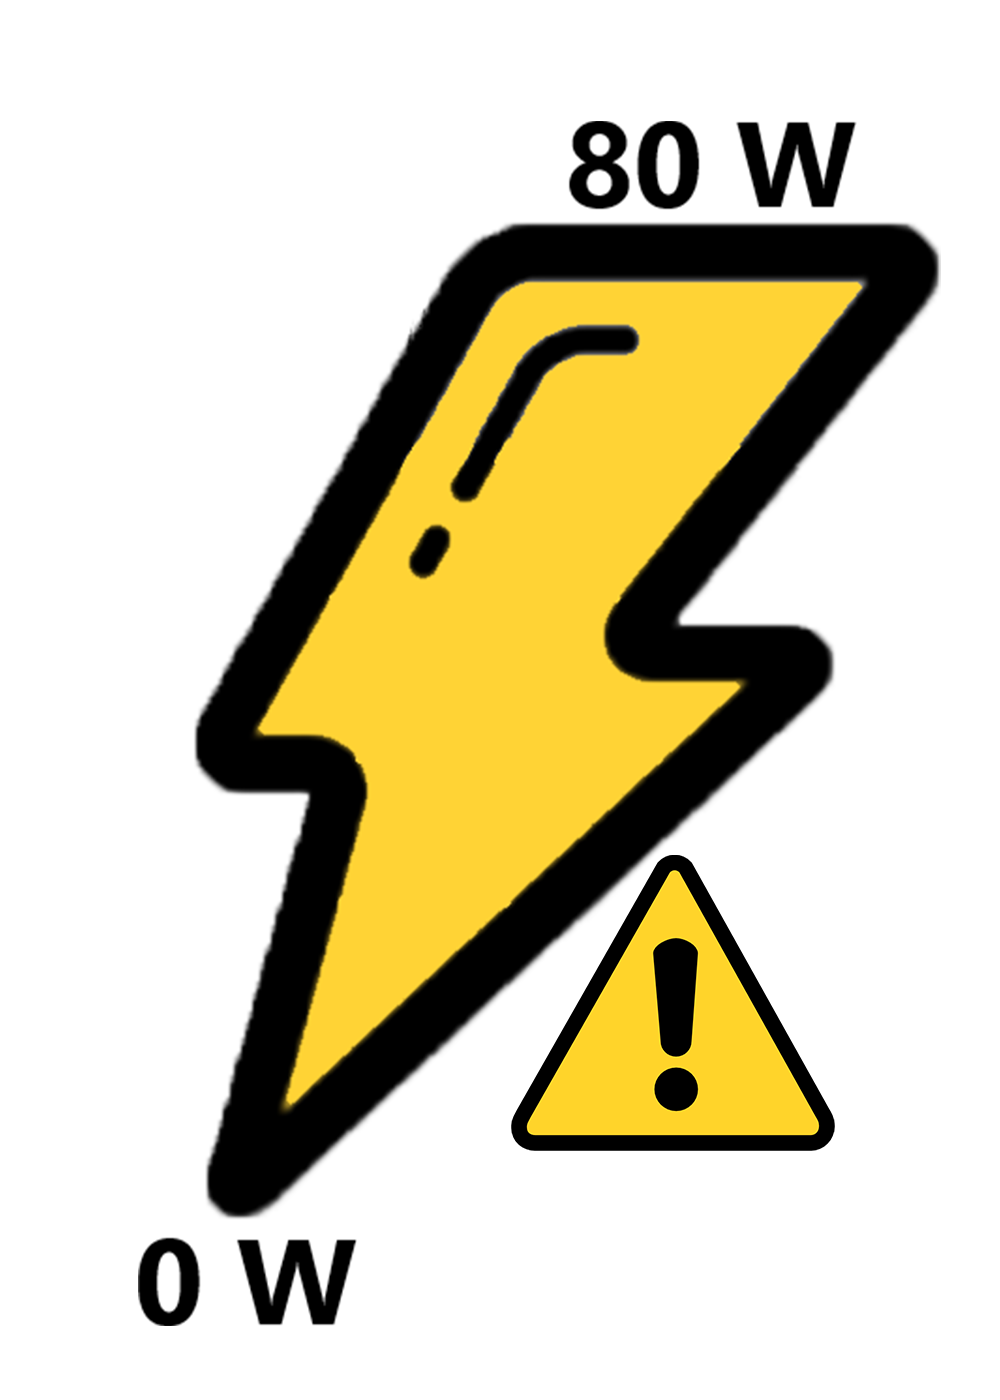
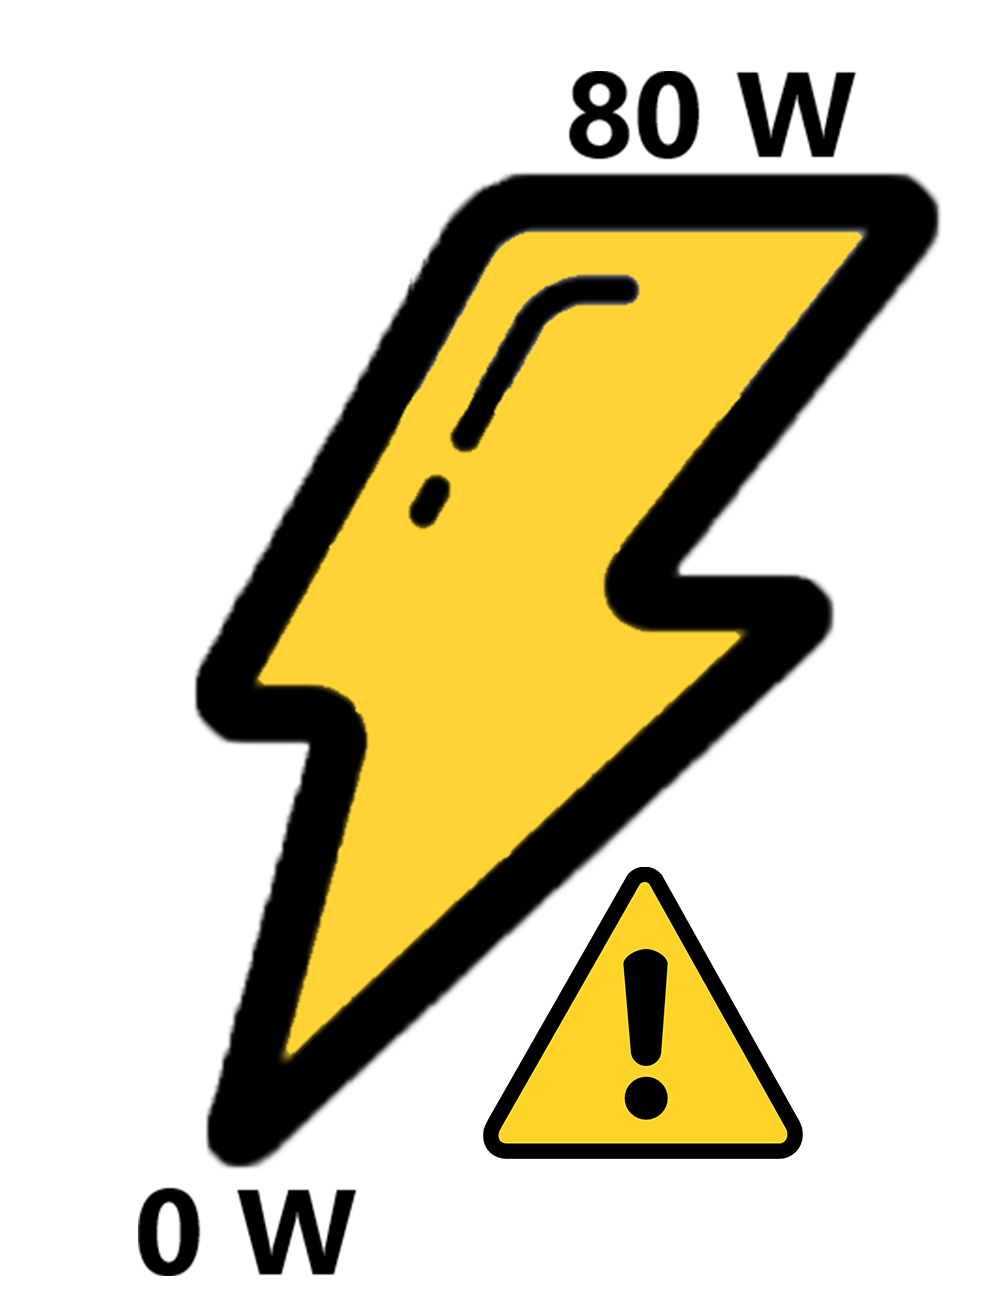
Mise a jour images surpuissance et puissanceError ref #8 #10

diff --git a/Application/stds-app/src/components/CardBoxPagePuissance.tsx b/Application/stds-app/src/components/CardBoxPagePuissance.tsx
@@ -41,7 +41,7 @@ export default function CardBoxPuissance(){
 
     switch (true) {
         case (valPuissance <= 0):
-            imageVal = "puissanceError.png"
+            imageVal = "PuissanceError.png"
             break;
         case (valPuissance <= 20 && valPuissance > 0):
             imageVal = "min-.png"
@@ -98,7 +98,7 @@ export default function CardBoxPuissance(){
                                 <Grow in={showImage} timeout={1000} style={{ transformOrigin: '10% 10%' }}>
                                 <Box sx={{ display: "flex", alignItems: "center", height: 250, width: 200, marginBottom:0.5 ,justifyContent: "center"}}>
                                
-                                <Box sx={{display: "flex" ,height:140, width:80 ,alignItems: "center"}}>
+                                <Box sx={{display: "flex" ,height:120, width:80 ,alignItems: "center"}}>
 
                                     <img src={require('../images/' + imageVal)} alt={""} />
 

diff --git a/Application/stds-app/src/pages/Puissance.tsx b/Application/stds-app/src/pages/Puissance.tsx
@@ -21,7 +21,7 @@ export default function Puissance() {
 
     switch (true) {
         case (valPuissance <= 0):
-            imageVal = "puissanceError.png"
+            imageVal = "PuissanceError.png"
             break;
         case (valPuissance <= 20 && valPuissance > 0):
             imageVal = "min-.png"
